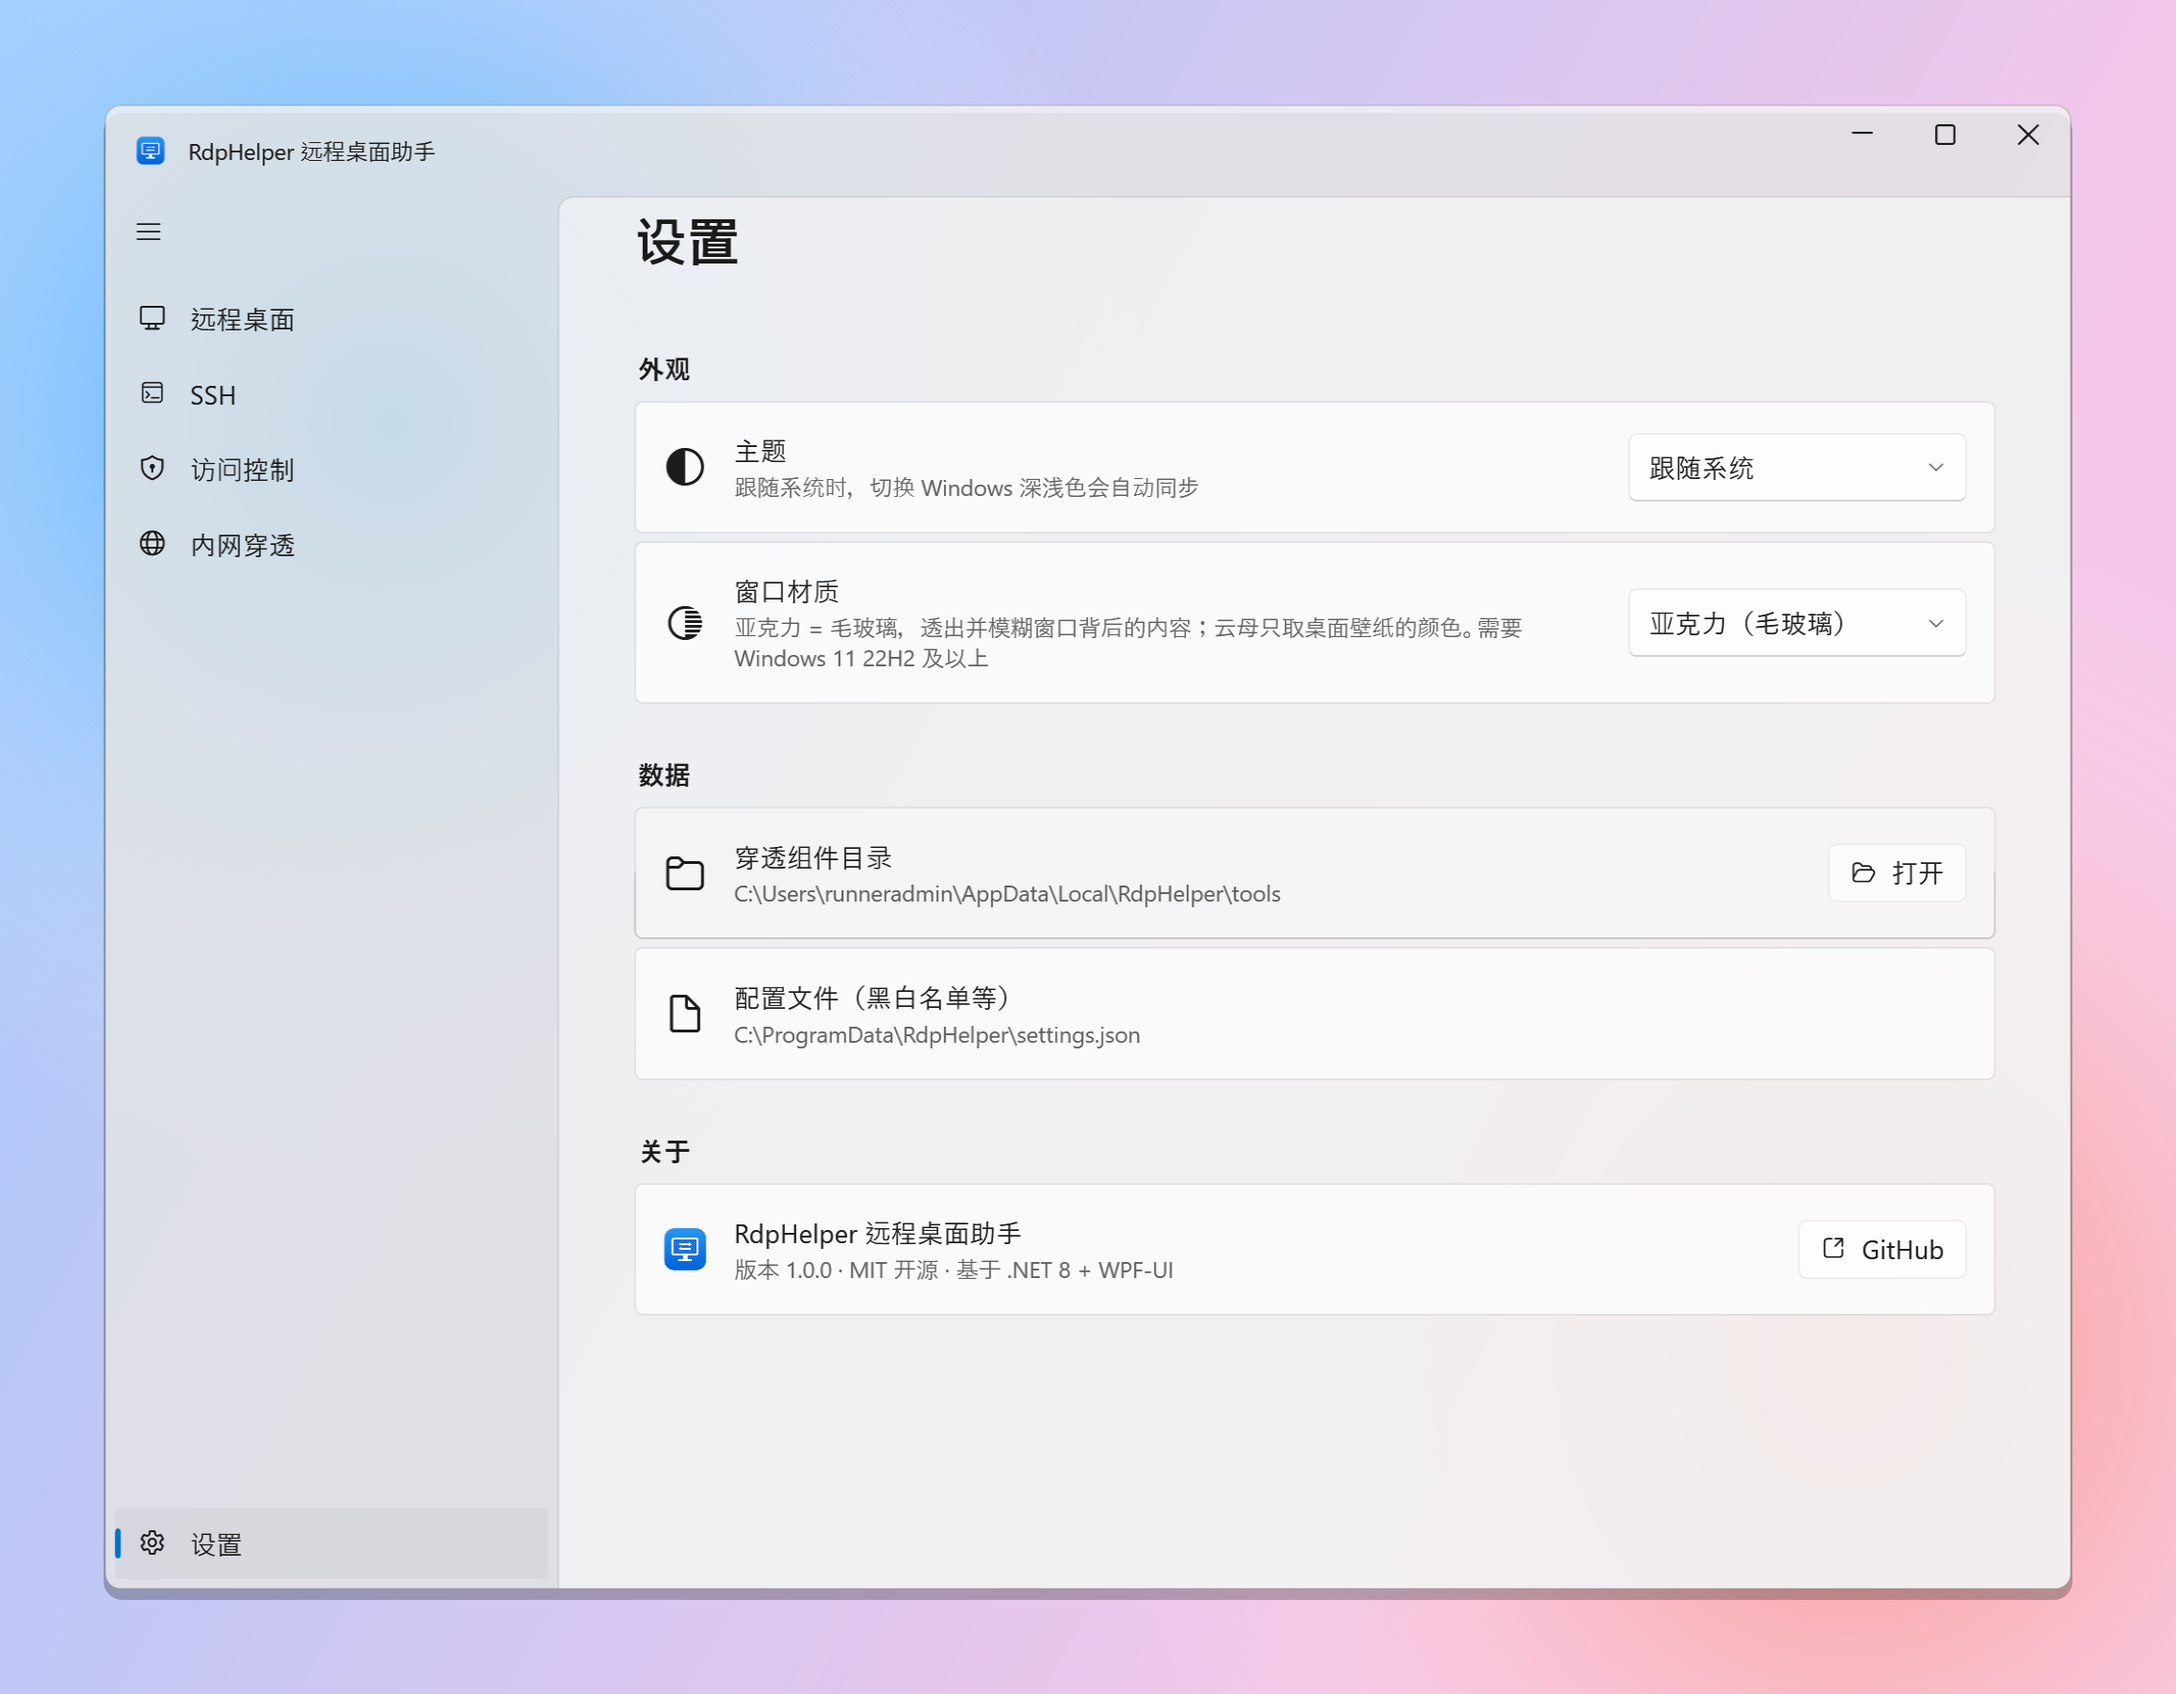
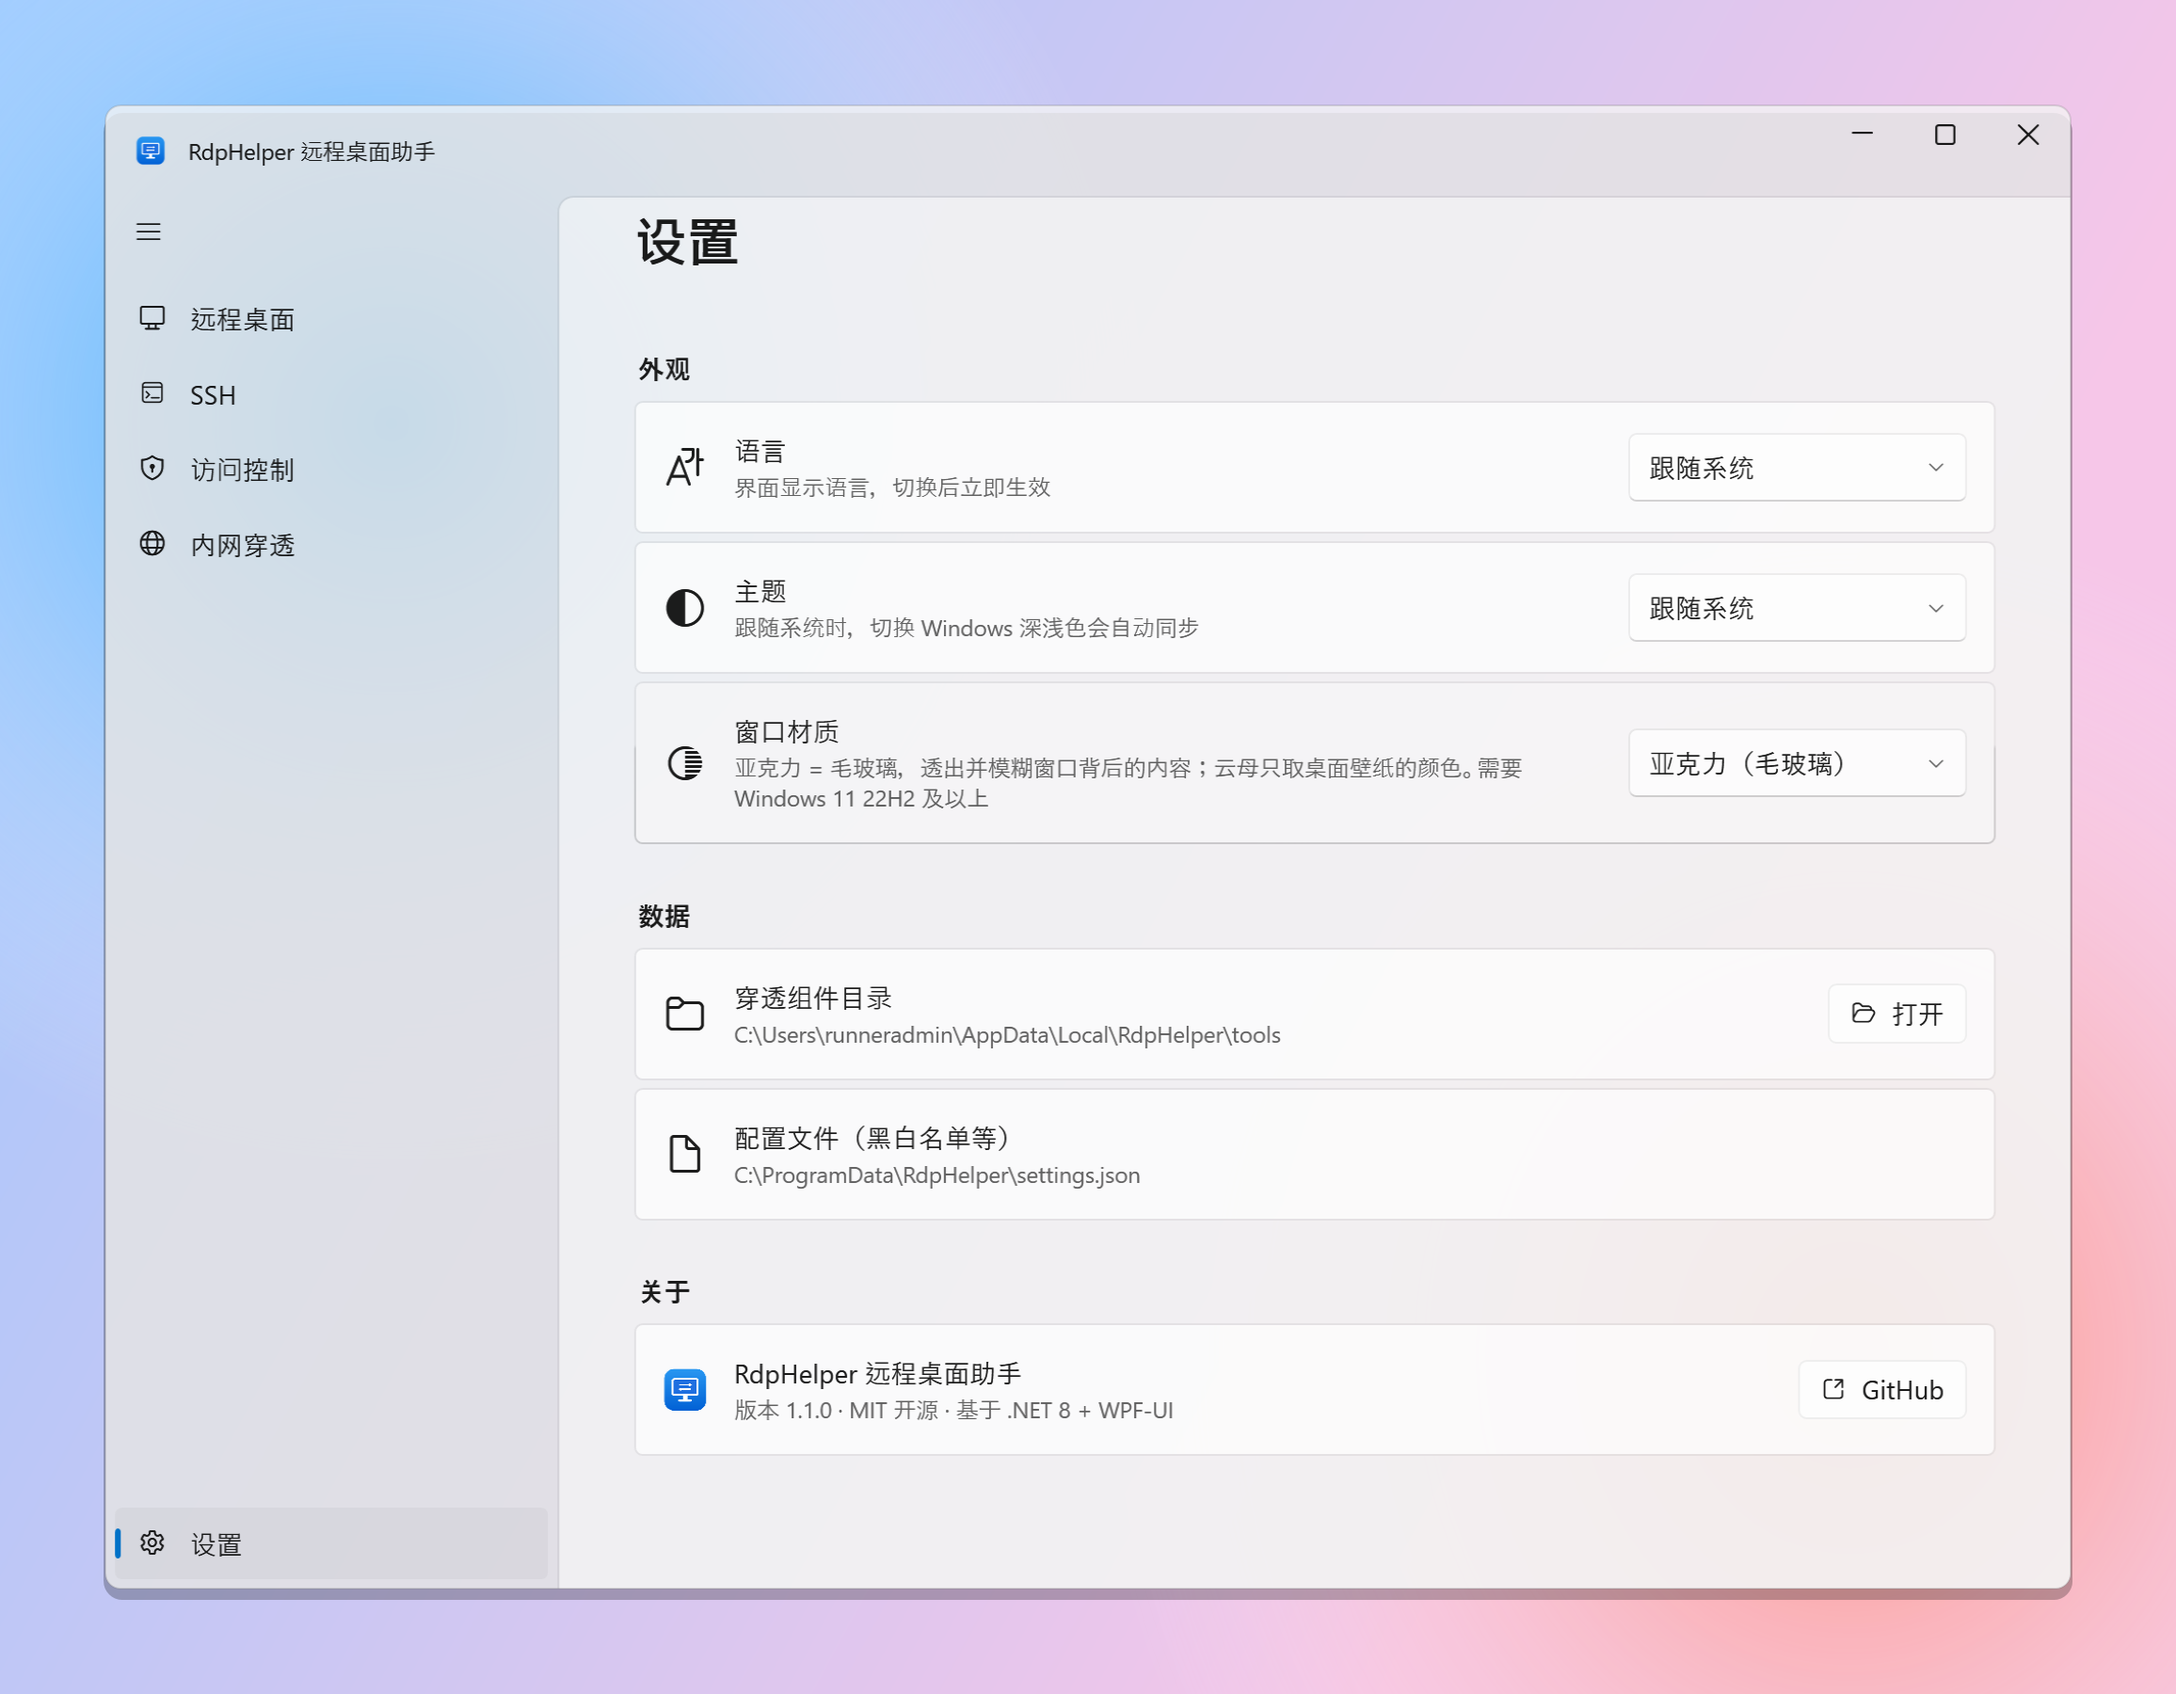
README：中英双语截图与说明，自检 27 项

diff --git a/README.en.md b/README.en.md
@@ -16,14 +16,14 @@ Windows 11 Settings look · Acrylic glass · Single self-contained exe
 [![Platform](https://img.shields.io/badge/platform-Windows%2010%20%7C%2011%20%7C%20Server-0078D6?style=flat-square&logo=windows&logoColor=white)](#-requirements)
 [![.NET](https://img.shields.io/badge/.NET-8.0-512BD4?style=flat-square&logo=dotnet&logoColor=white)](https://dotnet.microsoft.com/)
 [![WPF-UI](https://img.shields.io/badge/UI-WPF--UI%20Fluent-5C2D91?style=flat-square)](https://github.com/lepoco/wpfui)
-[![Self-test](https://img.shields.io/badge/self--test-26%20passed-brightgreen?style=flat-square)](#-automated-testing)
+[![Self-test](https://img.shields.io/badge/self--test-27%20passed-brightgreen?style=flat-square)](#-automated-testing)
 
 [简体中文](README.md) | **English**
 
 </div>
 
 > [!NOTE]
-> The app UI is currently in **Simplified Chinese**. An English UI is on the roadmap.
+> The UI is available in **English and Simplified Chinese**. It follows the Windows display language by default; switch it any time under *Settings → Language*.
 
 ## 📖 Overview
 
@@ -54,6 +54,7 @@ The installer ships **no tunneling binaries**; they are fetched from their offic
 | | RDP or SSH | Child processes live in a Job Object and die with the app |
 | 🎨 **UI** | Fluent design | NavigationView + cards like Windows Settings |
 | | Glass | Acrylic / Mica / Mica Alt; light / dark / system |
+| | 🌐 Bilingual | English / 简体中文 / follow system, switches instantly; shared connection info follows the language |
 
 ## 📸 Screenshots
 
@@ -61,9 +62,11 @@ The installer ships **no tunneling binaries**; they are fetched from their offic
 
 | Remote Desktop (dark) | Access control |
 | :-: | :-: |
-| <img src="docs/screenshots/remote-dark.png" /> | <img src="docs/screenshots/access-light.png" /> |
+| <img src="docs/screenshots/en/remote-dark.png" /> | <img src="docs/screenshots/en/access-light.png" /> |
 | **SSH** | **Tunneling** |
-| <img src="docs/screenshots/ssh-dark.png" /> | <img src="docs/screenshots/tunnel-light.png" /> |
+| <img src="docs/screenshots/en/ssh-dark.png" /> | <img src="docs/screenshots/en/tunnel-light.png" /> |
+| **Settings** | **Remote Desktop (light)** |
+| <img src="docs/screenshots/en/settings-dark.png" /> | <img src="docs/screenshots/en/remote-light.png" /> |
 
 ## 📦 Download
 
@@ -154,7 +157,7 @@ cloudflared access rdp --hostname xxx.trycloudflare.com --url rdp://localhost:13
 
 ## 🧪 Automated testing
 
-Every push runs an end-to-end self-test on a **real Windows Server VM** in GitHub Actions (`RdpHelper.exe --selftest report.json`): enabling RDP, a real **RDP X.224 handshake**, port change to 13389 and back, firewall allow/deny rules read back, OpenSSH start + **SSH banner handshake** on 22 / 22022, downloading all three tunnel clients, and **public end-to-end RDP handshakes through bore and Cloudflare**. A GUI self-test renders every page in light and dark at 2×.
+Every push runs an end-to-end self-test on a **real Windows Server VM** in GitHub Actions (`RdpHelper.exe --selftest report.json`): enabling RDP, a real **RDP X.224 handshake**, port change to 13389 and back, firewall allow/deny rules read back, OpenSSH start + **SSH banner handshake** on 22 / 22022, downloading all three tunnel clients, and **public end-to-end RDP handshakes through bore and Cloudflare**. A GUI self-test renders every page in light / dark × English / Chinese at 2×, fails if any Chinese text is left on the English UI, and exercises the live language switch; `tools/check_i18n.py` statically verifies translation coverage.
 
 ## 🛠 Build from source
 
